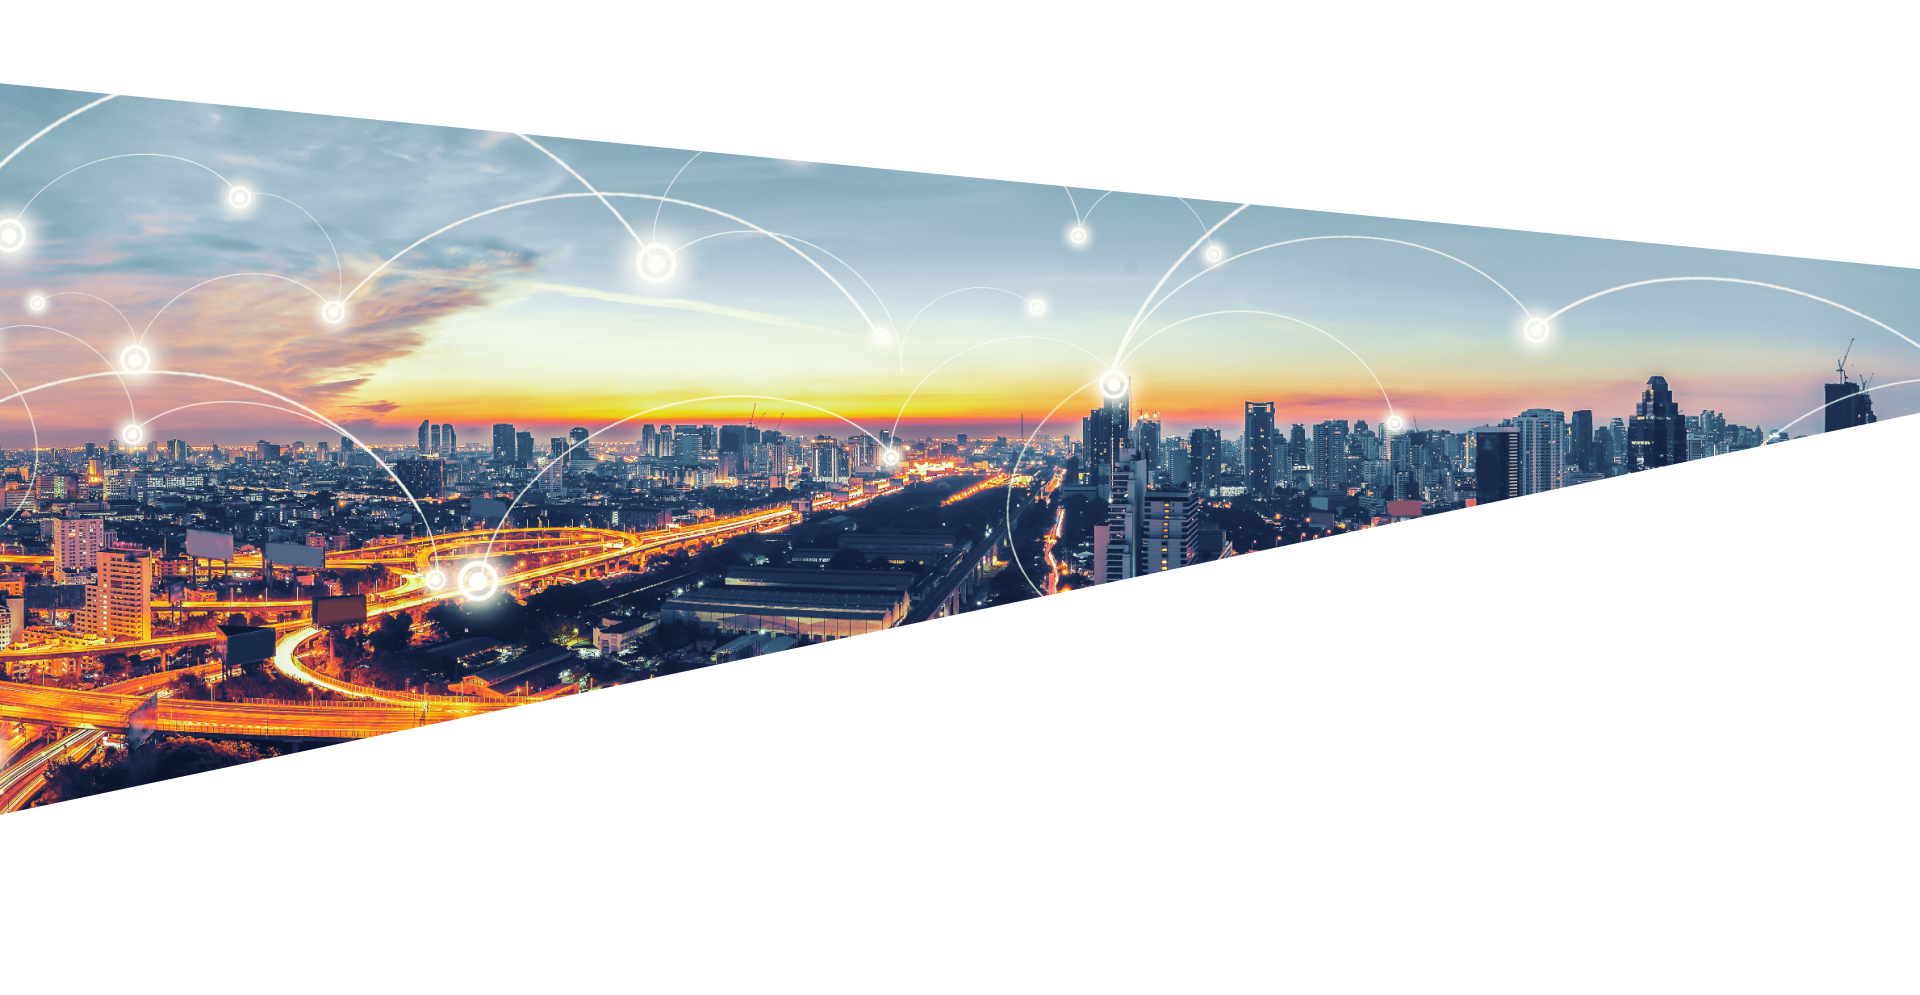
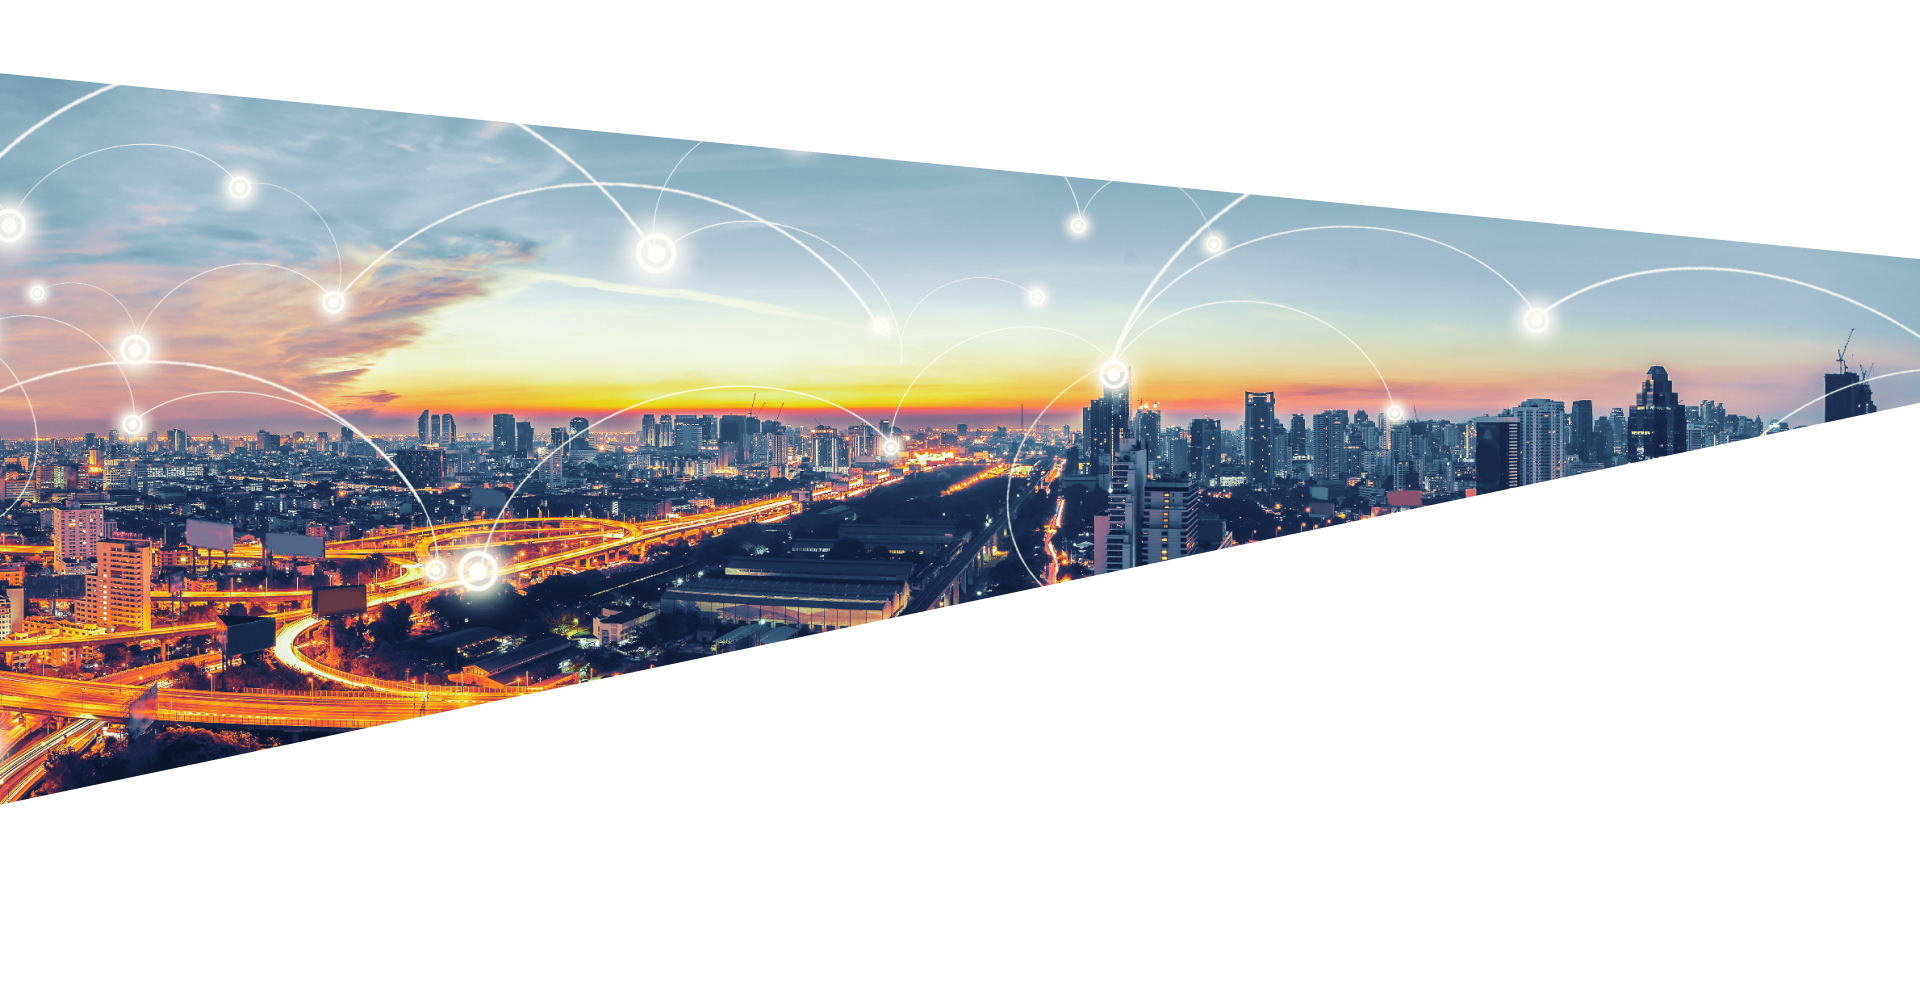
responsive

diff --git a/themes/neo-wireless-html/assets/css/_about-us.css b/themes/neo-wireless-html/assets/css/_about-us.css
@@ -1,6 +1,8 @@
 
 .nw-neo-wireless-sec{
 	padding: 100px 0 70px;
+	padding: 100px 0 0;
+
 }
 
 .nw-neo-wireless-sec{
@@ -71,45 +73,111 @@
 
 /*nw-content-sec-wrp*/
 
-#nw-content-about-page{
-    /*padding-top: 330px;*/
+
+.nw-about-content-sec{
+	background-image: url(../images/who-we-are-bg.png), url(../images/who-we-are-bg-2.png);
+	/*background-size: cover;
+	background-size: contain;*/
+	background-size: auto;
+	background-repeat: no-repeat, no-repeat;
+	background-position: left top, right bottom;
+	padding-bottom: 240px;
+    padding-top: 530px;
 }
-#nw-content-about-page .nw-content-wrp {
-    border-top: 0;
+.nw-about-content-lft{
+	background: #FFFFFF;
+	box-shadow: 0px 0px 26px rgba(67, 88, 123, 0.07);
+	float: left;
+	width: 50%;
+	padding: 70px 60px 60px 58px;
 }
-#nw-content-about-page{
-    background-image: url(../images/nw-content-bg.jpg);
-    background-size: cover;
-    background-repeat: no-repeat;
-    background-position: center center;
-    padding-bottom: 240px;
+.nw-about-content-rgt {
+    float: right;
+    width: 50%;
+    padding-left: 90px;
+    padding-top: 155px;
+    padding-right: 10px;
+}
+
+.nw-about-content-lft h2{
+	margin: 0;
+	font-weight: 600;
+	color: #43587B;
+	line-height: 24px;
+	margin-bottom: 25px;
+}
+
+.nw-about-content-lft strong{
+	display: inline-block;
+	vertical-align: baseline;
+	font-size: 30px;
+	line-height: 36px;
+	font-weight: 300;
+	color: #7B8CA8;
+	margin-bottom: 20px;
+}
+
+.nw-about-content-lft span{
+	display: inline-block;
+	vertical-align: baseline;
+	margin-bottom: 15px;
+}
+
+.nw-about-content-lft p{
+	margin-bottom: 25px;
+}
+
+.nw-about-content-lft a{
+	display: inline-block;
+	vertical-align: baseline;
+	text-decoration: none;
+	font-size: 14px;
+	line-height: 16px;
+	font-weight: 700;
+	color: #7B8CA8;
+	text-align: center;
+	text-transform: uppercase;
+	border: 2px solid #7B8CA8;
+	border-radius: 8px;
+	padding: 18px 52px;
+	margin-top: 15px;
+	-ms-transition: all 0.5s;
+	-webkit-transition: all 0.5s;
+	transition: all 0.5s;
+}
+.nw-about-content-lft a:hover{
+	background-color: #43587b;
 }
 
 
-.nw-content-rgt.nw-content-features{
+
+
+
+
+.nw-about-content-rgt{
     float: right;
     width: 50%;
     padding-left: 90px;
     padding-top: 185px;
     padding-right: 10px;
 }
-.nw-content-features ul li{
+.nw-about-content-rgt ul li{
 	padding: 0
 }
-.nw-content-features ul li::after{
+.nw-about-content-rgt ul li::after{
 	content: none;
 }
-.nw-content-features-innr {
+.nw-content-features {
     border-bottom: 2px solid #E1E7F0;
     position: relative;
     padding-left: 90px;
     padding-bottom: 10px;
     padding-top: 35px;
 }
-.nw-content-features ul li:last-child .nw-content-features-innr {
+.nw-about-content-rgt ul li:last-child .nw-content-features {
 	border-bottom: 0
 }
-.nw-content-features-innr i{
+.nw-content-features i{
 	display: inline-block;
 	vertical-align: baseline;
 	position: absolute;
@@ -117,7 +185,7 @@
 	top:35px;
 }
 
-.nw-content-features-innr h3{
+.nw-content-features h3{
 	font-weight: 600;
 	color:#43587B;
 }
@@ -137,6 +205,14 @@
 	text-align: center;
 	max-width: 910px;
 	margin: 0 auto;
+	padding-bottom: 12px;
+}
+.nw-team-sec-head h3{
+	font-weight: 600;
+	font-size: 36px;
+	text-align: center;
+	color: #43587B;
+	text-transform: capitalize;
 }
 .nw-team-member-des h3 {
     font-weight: 600;
@@ -279,6 +355,16 @@
 	    line-height: 24px;
 	    margin-top: 25px;
 	}
+	.nw-about-content-rgt {
+	    float: right;
+	    width: 50%;
+	    padding-left: 50px;
+	    padding-top: 125px;
+	    padding-right: 10px;
+	}
+	.nw-about-content-lft {
+	    padding: 40px;
+	}	
 }
 
 @media(max-width: 991px){
@@ -289,18 +375,32 @@
 	    padding: 60px 0;
 	}
 
-.nw-team-grd-con > ul > li {
-    width: 33.333%;
-}
-.nw-team-grd-con > ul > li:nth-child(4n+1){
-	clear: initial;
-}
-.nw-team-grd-con > ul > li:nth-child(3n+1){
-	clear: left;
-}
-.nw-team-member {
-	min-height: 285px;
-}
+	.nw-team-grd-con > ul > li {
+	    width: 33.333%;
+	}
+	.nw-team-grd-con > ul > li:nth-child(4n+1){
+		clear: initial;
+	}
+	.nw-team-grd-con > ul > li:nth-child(3n+1){
+		clear: left;
+	}
+	.nw-team-member {
+		min-height: 285px;
+	}
+	.nw-about-content-lft {
+	    padding: 40px 20px;
+	}
+	.nw-about-content-lft strong {
+	    font-size: 23px;
+	    line-height: 30px;
+	    margin-bottom: 15px;
+	}
+	.nw-about-content-lft strong br{
+	    display:none;
+	}
+	.nw-about-content-rgt {
+	    padding-left: 30px;
+	}
 
 }
 @media(max-width: 767px){
@@ -310,27 +410,54 @@
 	.nw-neo-wireless-bg-wrp img{
 		margin:auto;
 	}
-.nw-team-grd-con > ul > li {
-    width: 50%;
-}
-.nw-team-grd-con > ul > li:nth-child(3n+1){
-	clear: initial;
-}
-.nw-team-grd-con > ul > li:nth-child(2n+1){
-	clear: left;
-}
-
+	.nw-team-sec-wrp {
+	    padding-top: 40px;
+	    margin-bottom: 30px;
+	}
+	.nw-team-grd-con {
+	    padding-bottom: 20px;
+	}
+	.nw-team-grd-con > ul > li {
+	    width: 50%;
+	}
+	.nw-team-grd-con > ul > li:nth-child(3n+1){
+		clear: initial;
+	}
+	.nw-team-grd-con > ul > li:nth-child(2n+1){
+		clear: left;
+	}
+	.nw-about-content-lft {
+	    width: 100%;
+	}
+	.nw-about-content-rgt {
+	    width: 100%;
+	}
+	.nw-about-content-rgt {
+	    padding-left: 0;
+	    padding-right: 0;
+	    padding-top: 25px;
+	}
+	.nw-about-content-lft h2 {
+	    margin-bottom: 20px;
+	}
+	.nw-about-content-sec {
+	    padding-top: 250px;
+	    padding-bottom: 100px;
+	}
+	.nw-about-content-lft strong {
+	    font-size: 20px;
+	    line-height: 25px;
+	    margin-bottom: 15px;
+	}
 }
 
 @media(max-width: 639px){
-
-.nw-team-member {
-	min-height: 260px;
-}
+	.nw-team-member {
+		min-height: 260px;
+	}
 }
 
 @media(max-width: 575px){
-
 	.nw-neo-wireless-dsc strong {
 	    font-size: 25px;
 	    line-height: 30px;
@@ -344,22 +471,19 @@
 	    line-height: 25px;
 	    margin-bottom: 10px;
 	}
-.nw-team-grd-con > ul > li {
-    width: 100%;
-}
-.nw-team-grd-con > ul > li:nth-child(2n+1){
-	clear: initial;
-}
-/*.nw-team-member {
-	min-height: 280px;
-}*/
-.nw-team-grd-con > ul > li .nw-team-grd{
-	margin: 0 auto;	
-	max-width: 320px;
-}
-.nw-team-member-wrp {
-    margin-bottom: 12px;
-}
+	.nw-team-grd-con > ul > li {
+	    width: 100%;
+	}
+	.nw-team-grd-con > ul > li:nth-child(2n+1){
+		clear: initial;
+	}
+	.nw-team-grd-con > ul > li .nw-team-grd{
+		margin: 0 auto;	
+		max-width: 320px;
+	}
+	.nw-team-member-wrp {
+	    margin-bottom: 12px;
+	}
 
 }
 

diff --git a/themes/neo-wireless-html/about-us.html b/themes/neo-wireless-html/about-us.html
@@ -148,12 +148,12 @@
 </section><!-- end of nw-neo-wireless-sec -->
 
 
-<section class="nw-content-sec-wrp" id="nw-content-about-page">
+<section class="nw-about-content-sec">
   <div class="container">
     <div class="row">
       <div class="col-sm-12">
-        <div class="nw-content-wrp clearfix">
-          <div class="nw-content-lft">
+        <div class="nw-about-content-wrp clearfix">
+          <div class="nw-about-content-lft">
             <h2>Who we are</h2>
             <strong>Proin est risus, convallis nec magna sed, <br> semper consequat est.</strong>
             <span><i><img src="assets/images/dotted-icon.svg"></i></span>
@@ -162,10 +162,10 @@
             <p>Ut tempor nisl vel odio tincidunt maximus. Mauris in orci vitae dui dignissim elementum. Vestibulum in ligula ante. Nulla eget nisl fringilla, ultrices metus vitae, mollis odio.</p>
             <a href="#">About Us</a>
           </div>
-          <div class="nw-content-rgt nw-content-features">
+          <div class="nw-about-content-rgt">
             <ul class="ulc">
               <li> 
-                <div class="nw-content-features-innr">
+                <div class="nw-content-features">
                   <i>
                     <img src="assets/images/star-nw-content.svg" alt="">
                   </i>
@@ -173,8 +173,8 @@
                   <p>Ut tempor nisl vel odio tincidunt maximus. Mauris in orci vitae dui dignissim elementum.</p>
                 </div>
               </li>
-              <li> 
-                <div class="nw-content-features-innr">
+              <li>  
+                <div class="nw-content-features">
                   <i>
                     <img src="assets/images/lamp-nw-content.svg" alt="">
                   </i>
@@ -183,7 +183,7 @@
                 </div>
               </li>
               <li> 
-                <div class="nw-content-features-innr">
+                <div class="nw-content-features">
                   <i>
                     <img src="assets/images/radio-nw-content.svg" alt="">
                   </i>
@@ -206,7 +206,7 @@
     <div class="row">
       <div class="col-sm-12">
         <div class="nw-team-sec-head"> 
-          <h3>our team</h3>
+          <h3>Our Team</h3>
           <p>Ut tempor nisl vel odio tincidunt maximus. Mauris in orci vitae dui dignissim elementum. Vestibulum in ligula ante. Nulla eget nisl fringilla, ultrices metus vitae, mollis odio.</p>
         </div>
         <div class="nw-team-grd-con"> 
